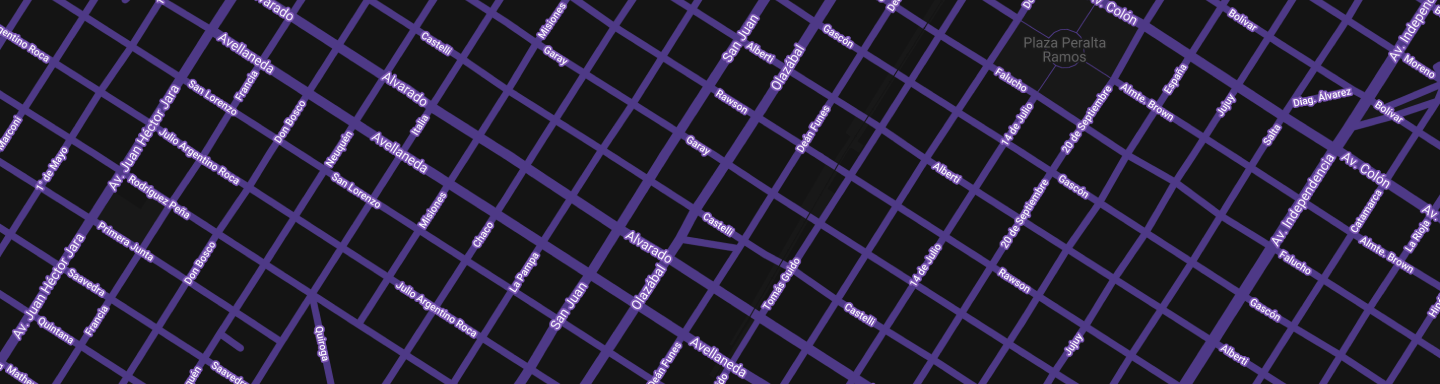
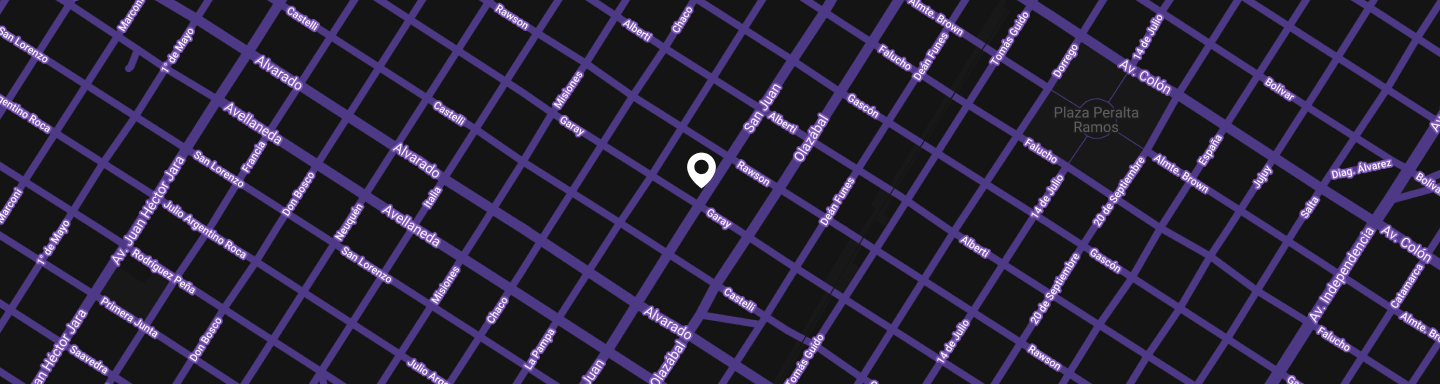
Fix mapa

diff --git a/src/components/Nav/Nav.js b/src/components/Nav/Nav.js
@@ -4,7 +4,6 @@ import "./Nav.css";
 import GeneralLinkButton from "../GeneralLinkButton/GeneralLinkButton";
 
 function Nav() {
-
   const [showNavbar, setshowNavbar] = useState(false);
 
   const [OnScreen, setOnScreen] = useState(0);
@@ -12,19 +11,22 @@ function Nav() {
   const location = useLocation();
 
   useEffect(() => {
-    if(location.pathname === "/" || location.pathname === "/undefined") setOnScreen(0);
-    if(location.pathname === "/Quienes_somos") setOnScreen(1);
-    if(location.pathname === "/Servicios") setOnScreen(2);
-    if(location.pathname === "/CasosDeExito") setOnScreen(3);
-    if(location.pathname === "/Proyectos") setOnScreen(4);
-    if(location.pathname === "/Contacto") setOnScreen(5); 
+    if (location.pathname === "/" || location.pathname === "/undefined")
+      setOnScreen(0);
+    if (location.pathname === "/Quienes_somos") setOnScreen(1);
+    if (location.pathname === "/Servicios") setOnScreen(2);
+    if (location.pathname === "/CasosDeExito") setOnScreen(3);
+    if (location.pathname === "/Proyectos") setOnScreen(4);
+    if (location.pathname === "/Contacto") setOnScreen(5);
   });
 
   return (
     <div>
       <div className="Nav-container">
         <div className="Nav-img-container">
-            <GeneralLinkButton href="/" className="Nav-align-center"><img className="Nav-img" src="./img/Group.png"/></GeneralLinkButton>
+          <GeneralLinkButton href="/" className="Nav-align-center">
+            <img className="Nav-img" src="./img/Group.png" />
+          </GeneralLinkButton>
           <img
             onClick={() => setshowNavbar(!showNavbar)}
             className="Nav-responsiveMenu-btn btn-noselect"
@@ -32,23 +34,46 @@ function Nav() {
             id="Nav-responsiveMenu-btn"
           ></img>
         </div>
-        <div className={`Nav-btn-container ${showNavbar ? "" : "NoHeight"}`}>
-          <GeneralLinkButton href="/" className={`Nav-btn ${OnScreen === 0 ? "Nav-btn-InScreen" : ""}`}>
+        <div
+          className={`Nav-btn-container ${showNavbar ? "" : "NoHeight"}`}
+          onClick={() => {
+            setshowNavbar(!showNavbar);
+          }}
+        >
+          <GeneralLinkButton
+            href="/"
+            className={`Nav-btn ${OnScreen === 0 ? "Nav-btn-InScreen" : ""}`}
+          >
             Inicio
           </GeneralLinkButton>
-          <GeneralLinkButton href="/Quienes_somos" className={`Nav-btn ${OnScreen === 1 ? "Nav-btn-InScreen" : ""}`}>
+          <GeneralLinkButton
+            href="/Quienes_somos"
+            className={`Nav-btn ${OnScreen === 1 ? "Nav-btn-InScreen" : ""}`}
+          >
             Quienes somos
           </GeneralLinkButton>
-          <GeneralLinkButton href="/Servicios" className={`Nav-btn ${OnScreen === 2 ? "Nav-btn-InScreen" : ""}`}>
+          <GeneralLinkButton
+            href="/Servicios"
+            className={`Nav-btn ${OnScreen === 2 ? "Nav-btn-InScreen" : ""}`}
+          >
             Servicios
           </GeneralLinkButton>
-          <GeneralLinkButton href="/CasosDeExito" className={`Nav-btn ${OnScreen === 3 ? "Nav-btn-InScreen" : ""}`}>
+          <GeneralLinkButton
+            href="/CasosDeExito"
+            className={`Nav-btn ${OnScreen === 3 ? "Nav-btn-InScreen" : ""}`}
+          >
             Casos de éxito
           </GeneralLinkButton>
-          <GeneralLinkButton href="/Proyectos" className={`Nav-btn ${OnScreen === 4 ? "Nav-btn-InScreen" : ""}`}>
+          <GeneralLinkButton
+            href="/Proyectos"
+            className={`Nav-btn ${OnScreen === 4 ? "Nav-btn-InScreen" : ""}`}
+          >
             Proyectos
           </GeneralLinkButton>
-          <GeneralLinkButton href="/Contacto" className={`Nav-btn ${OnScreen === 5 ? "Nav-btn-InScreen" : ""}`}>
+          <GeneralLinkButton
+            href="/Contacto"
+            className={`Nav-btn ${OnScreen === 5 ? "Nav-btn-InScreen" : ""}`}
+          >
             Contacto
           </GeneralLinkButton>
         </div>

diff --git a/src/components/Example/Example.css b/src/components/Example/Example.css
@@ -1,47 +1,54 @@
-.examples-container{
-    background: linear-gradient(90deg, #0D1117 100%, #211930 100%);
-    padding: 10px 0px 100px 0;
-    display: flex;
+.examples-container {
+  background: linear-gradient(90deg, #0d1117 100%, #211930 100%);
+  padding: 10px 0px 100px 0;
+  display: flex;
+  margin-bottom: 4rem;
 }
 
-.examples-container .img{
-    position: absolute;
-    right: 0;
-    z-index: 10;
+.examples-container .img {
+  position: absolute;
+  right: 0;
+  z-index: 10;
 }
 
-.examples-container .example-info{
-    margin-top: 60px;
-    width: 30%;
-    padding: 0 10vw;
-    background: #6e40c9;
+@media screen and (min-width: 1200px) {
+  .examples-container .img {
+    width: 55%;
+  }
+}
+
+.examples-container .example-info {
+  margin-top: 60px;
+  width: 30%;
+  padding: 0 10vw;
+  background: #6e40c9;
+  justify-content: center;
+  height: 330px;
+}
+
+.examples-container .example-info img {
+  width: 30%;
+}
+
+.btn-example {
+  padding-top: 20px;
+}
+
+@media screen and (max-width: 900px) {
+  .examples-container {
     justify-content: center;
-    height: 330px;
-}
+  }
 
-.examples-container .example-info img{
-    width: 30%;
-}
+  .examples-container .img {
+    width: 100%;
+  }
 
-.btn-example{
-    padding-top: 20px;
-}
+  .examples-container .example-info {
+    margin-top: 130px;
+    width: 70%;
+  }
 
-@media screen and (max-width: 700px) {
-    .examples-container{
-        justify-content: center;
-    }
-    
-    .examples-container .img{
-        width: 100%;
-    }
-    
-    .examples-container .example-info{
-        margin-top: 130px;
-        width: 70%;
-    }
-    
-    .examples-container .example-info img{
-        width: 50%;
-    }
+  .examples-container .example-info img {
+    width: 50%;
+  }
 }

diff --git a/src/screens/Contacto/Contacto.css b/src/screens/Contacto/Contacto.css
@@ -1,58 +1,65 @@
 .Header1-NoRadius {
   border-bottom-right-radius: unset;
   height: max-content;
+  display: flex;
+  flex-direction: column;
 }
 
-.Contacto-title{
+@media screen and (min-width: 1000px) {
+  .Header1-NoRadius {
+    flex-direction: row;
+  }
+}
+
+.Contacto-title {
   padding-top: 10px;
 }
 
-.Contacto-formContainer{
+.Contacto-formContainer {
   padding: 30px 0;
 }
 
-.ContactoData-container{
+.ContactoData-container {
   padding: 30px 0;
 }
 
-.ContactoData-title{
+.ContactoData-title {
   font-weight: 600;
   padding-bottom: 15px;
 }
 
-.Contacto-greyColor{
+.Contacto-greyColor {
   color: rgba(255, 255, 255, 0.4);
 }
 
-@media screen and (min-width: 1000px){
-  .Contacto-formContainer{
+@media screen and (min-width: 1000px) {
+  .Contacto-formContainer {
     max-width: 30vw;
     padding-right: 10vw;
   }
 }
 
-.Contacto-mapa-container{
+.Contacto-mapa-container {
+  margin-top: -3px;
   display: flex;
   justify-content: center;
+  align-items: center;
   overflow: hidden;
   position: relative;
 }
 
-.mapa{
-  width: 2000px;
+.mapa {
+  min-height: 350px;
+  object-fit: contain;
 }
 
-.punto-mapa{
-  width: 35px;
-  top: calc(100vw/9.1);
-  left: calc(47.5vw);
-  position: absolute;
+.Contacto-dataContainer {
+  margin-left: 5rem;
+  font-size: 1.2rem;
 }
 
-@media screen and (max-width: 1440px){
-  .punto-mapa{
-    top: 130px;
-    left: calc(47.5vw);
-    position: absolute;
+@media screen and (min-width: 1000px) {
+  .Contacto-dataContainer {
+    margin: 0 auto;
   }
 }

diff --git a/src/screens/Contacto/Contacto.jsx b/src/screens/Contacto/Contacto.jsx
@@ -25,7 +25,7 @@ const Contacto = () => {
           )}
         />
       </Text1>
-      <Text1 className="start description">
+      <Text1 className="start description Contacto-dataContainer">
         <div className="ContactoData-container">
           <div className="ContactoData-title">Email</div>
           <div className="Contacto-greyColor">hello@replace.com.ar</div>
@@ -44,8 +44,8 @@ const Contacto = () => {
       
     </Header1>
     <div className="Contacto-mapa-container">
-      <img className="mapa" src="./svg/mapa.svg"></img>
-      <img className="punto-mapa" src="./svg/punto-mapa.svg"></img>
+      <img className="mapa" src="./img/mapa.png"></img>
+      {/* <img className="punto-mapa" src="./svg/punto-mapa.svg"></img> */}
     </div>
     </>
   );

diff --git a/src/screens/CDE/CDE.jsx b/src/screens/CDE/CDE.jsx
@@ -6,8 +6,8 @@ import Text1 from "../../components/Text1/Text1";
 import Example from '../../components/Example/Example';
 export default function CDE() {
     return (
-        <div>
-            <Header1 className="Header1-NoRadius">
+        <div className='cde-container'>
+            <Header1 className="Header1-LessMarginCDE">
                 <Text1>
                     <ReplaceText text="EXITO" />
                     <div className="title start">Casos de exito</div>

diff --git a/src/screens/CDE/CDE.css b/src/screens/CDE/CDE.css
@@ -1,5 +1,9 @@
 @media screen and (max-width: 1000px) {
-    .Header1-NoRadius {
-        margin-bottom: -165px;
-    }
+  .Header1-LessMarginCDE {
+    margin-bottom: -165px;
+  }
+}
+
+.cde-container {
+  background: linear-gradient(90deg, #0d1117 100%, #211930 100%);
 }
